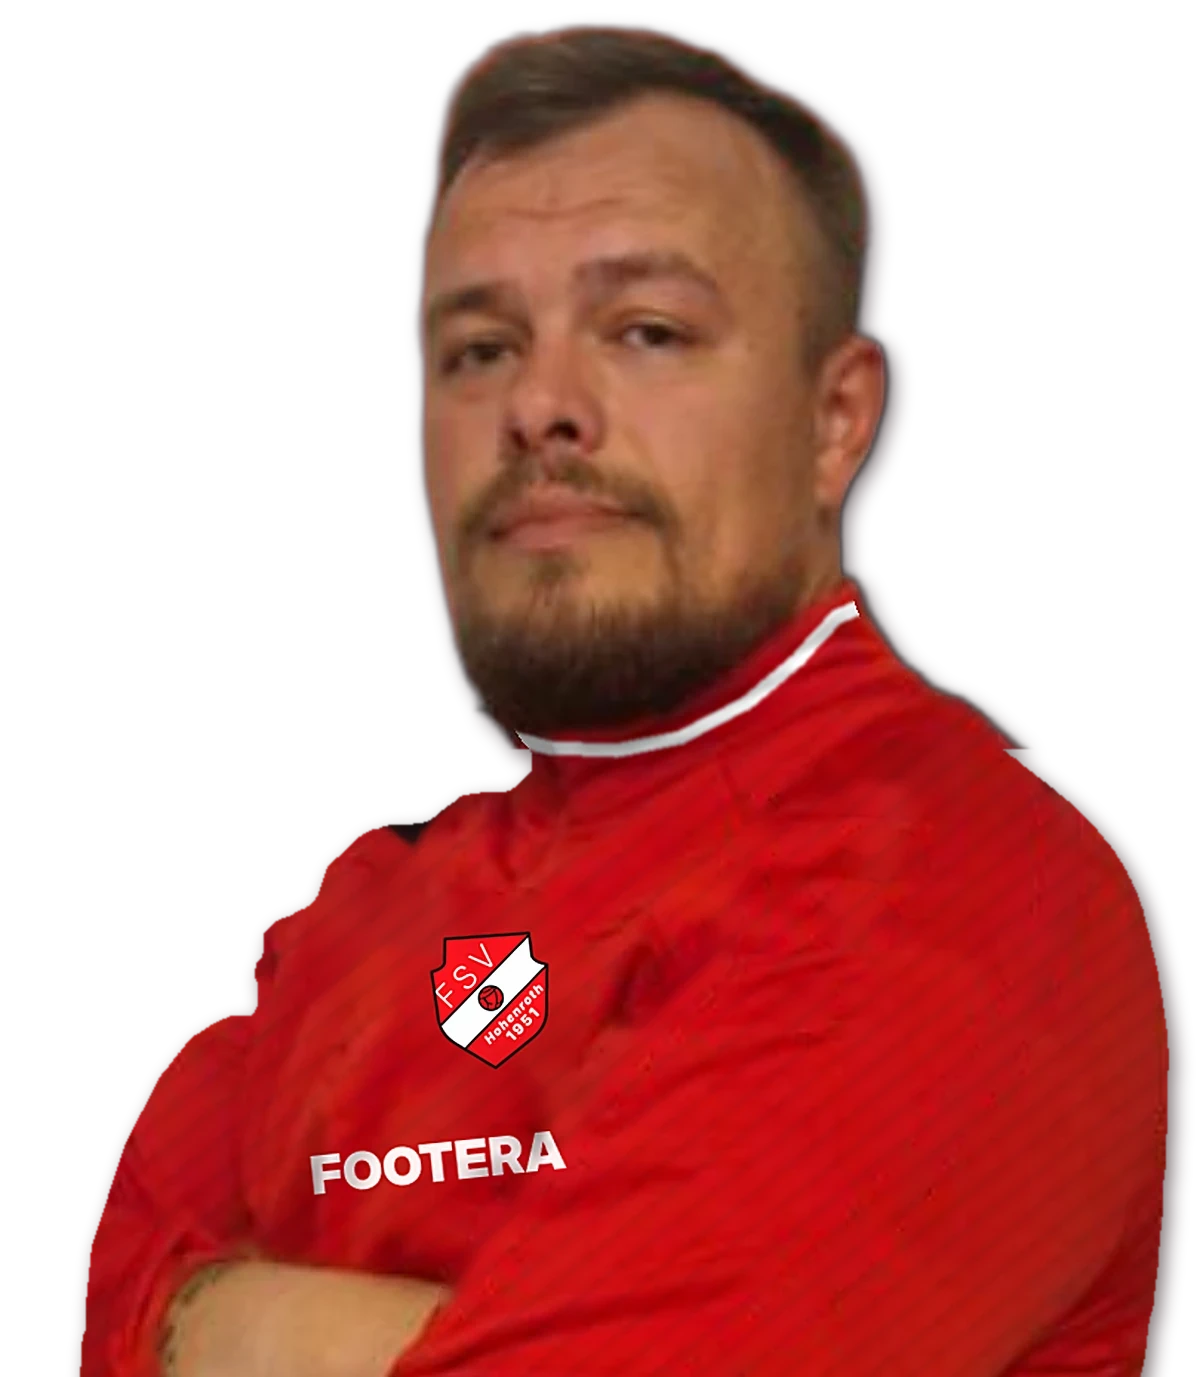
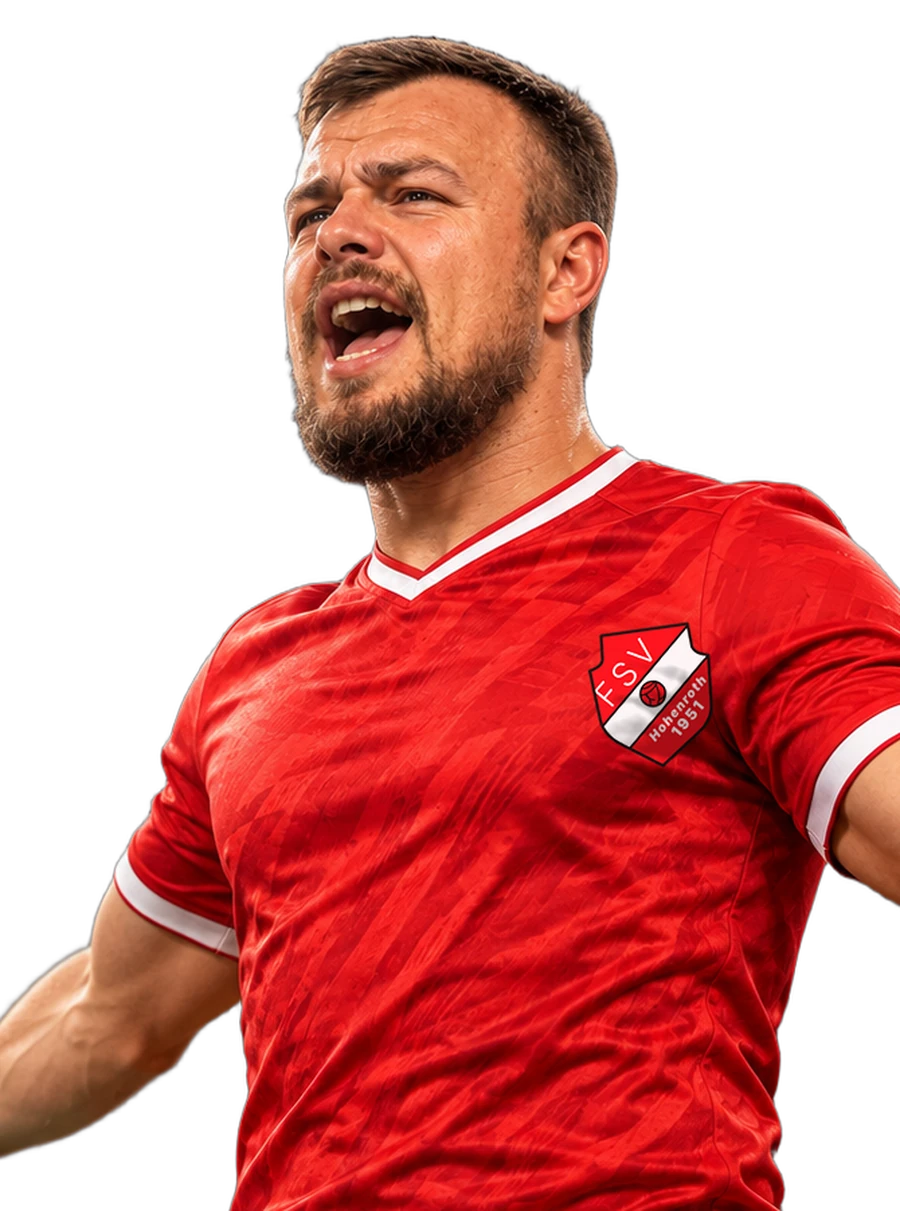
Founder Max: new photo with FSV crest, portrait kept inside the card window, centred info column
The portrait now ends above the name plate and stays clear of the info
column and the frame edge. Rating, position and emblems sit on the
centre line of the ruby frame's info column (also fixes Niklas).

Claude-Session: https://claude.ai/code/session_01NSdtxAHAXyk5Z9igakytiW

diff --git a/card-layout.css b/card-layout.css
@@ -469,6 +469,12 @@
 :is(.card-shell,.pitch .slot .mini .card-shell,.friend-pitch .friend-slot .mini .card-shell,.squad-drawer #bench .mini .card-shell,.squad-drawer #reserve .mini .card-shell) .custom-card.founder.worms-founder .face img{object-fit:cover!important;object-position:center top!important;filter:none}
 :is(.founder-shell,#bench .mini .founder-shell,#reserve .mini .founder-shell) .custom-card.founder.worms-founder .pname{background:transparent!important;border:0!important;font-family:Arial,sans-serif!important;height:27%!important;font-size:6.8cqw!important}
 :is(.founder-shell,#bench .mini .founder-shell,#reserve .mini .founder-shell) .custom-card.founder.worms-founder .stats{top:39%!important;height:29%!important}
+/* The ruby frame's info column spans 14.9%-34.2%; keep rating, position and emblems on its centre line. */
+.founder-shell:has(>.worms-founder){--card-info-left:15.5%;--card-info-width:18%}
+/* Max: portrait stays inside the window between column, frame edge and name plate. */
+.founder-shell:has(>.hohenroth-founder){
+ --card-portrait-left:35%;--card-portrait-right:13.5%;--card-portrait-top:14%;--card-portrait-height:52%;
+}
 .founder-pack-worms{background:linear-gradient(115deg,#52080e,#170306)!important;border-color:#deaf60!important}
 .opening.mode-walkout.theme-founder-worms{background:radial-gradient(circle at 50% 42%,#a7193287 0,#460712 32%,#130306 75%)}
 .opening.theme-founder-worms .walkout-tunnel{--walkout-beam:#ffe0a0;background:radial-gradient(ellipse at 50% 46%,#ff3b5370,#5b0918 28%,#180307 76%)}
